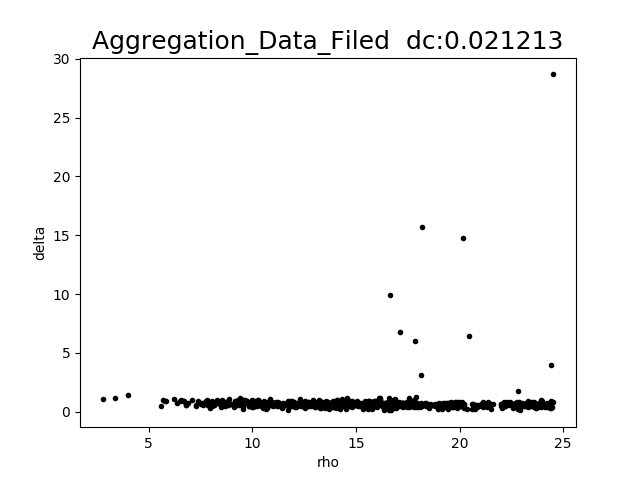
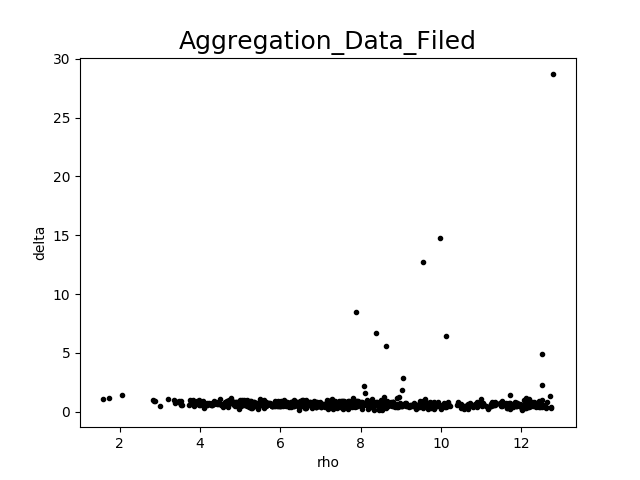
Data_Filed

diff --git a/main.py b/main.py
@@ -7,8 +7,8 @@ from DPC import DPC
 from DPC import DPC_Data_Filed
 from DPC import KNN_DPC
 
-f = open('./dataSet/D31.txt', 'r')
-#f = open('./dataSet/Aggregation.txt', 'r')
+#f = open('./dataSet/D31.txt', 'r')
+f = open('./dataSet/Aggregation.txt', 'r')
 #f = open('./dataSet/s1.txt', 'r')
 lines = f.readlines()
 dataSet = []
@@ -32,9 +32,9 @@ clustering_algorithms = (
 )
 
 #DPC.DPC(dataSet, 0.02, 'Aggregation')
-dc = DPC_Data_Filed.DPC_Data_Filed(dataSet, 'D31_Data_Filed_Entropy')
+#dc = DPC_Data_Filed.DPC_Data_Filed(dataSet, 'Aggregation_Data_Filed_Entropy')
 #DPC.DPC(dataSet, dc, 'Aggregation')
-#KNN_DPC.KNN_DPC(dataSet, 'Aggregation_Data_Filed')
+KNN_DPC.KNN_DPC(dataSet, 'Aggregation_Data_Filed')
 #   y_pred = algorithm.fit_predict(dataSet)
 
     # row_num = int(math.sqrt(len(clustering_algorithms)))

diff --git a/DPC/KNN_DPC.py b/DPC/KNN_DPC.py
@@ -6,6 +6,12 @@ import numpy as np
 import matplotlib.pyplot as plt
 from DPC import DPC
 
+def K_nearset(length, dist, K):
+    nearset = np.zeros((length, K))
+
+    # for begin in range(length):
+    #
+
 def localDensity(length, dist):
     rho = np.zeros((length, 1))
 
@@ -41,6 +47,10 @@ def KNN_DPC(location, name):
     length = len(location)
 
     dist, dist_vector = DPC.caculateDistance(length, location)
+
+    K = int(input("输入K: "))
+
+    nearset_arr = K_nearset(length, dist, K)
 
     rho = localDensity(length, dist)
 

diff --git a/DPC/DPC_Data_Filed.py b/DPC/DPC_Data_Filed.py
@@ -6,7 +6,7 @@ import matplotlib.pyplot as plt
 from DPC import DPC
 
 START = 0
-END = 1.1
+END = 20
 numRange = 0.01
 
 def DPC_Data_Filed(location, name):
